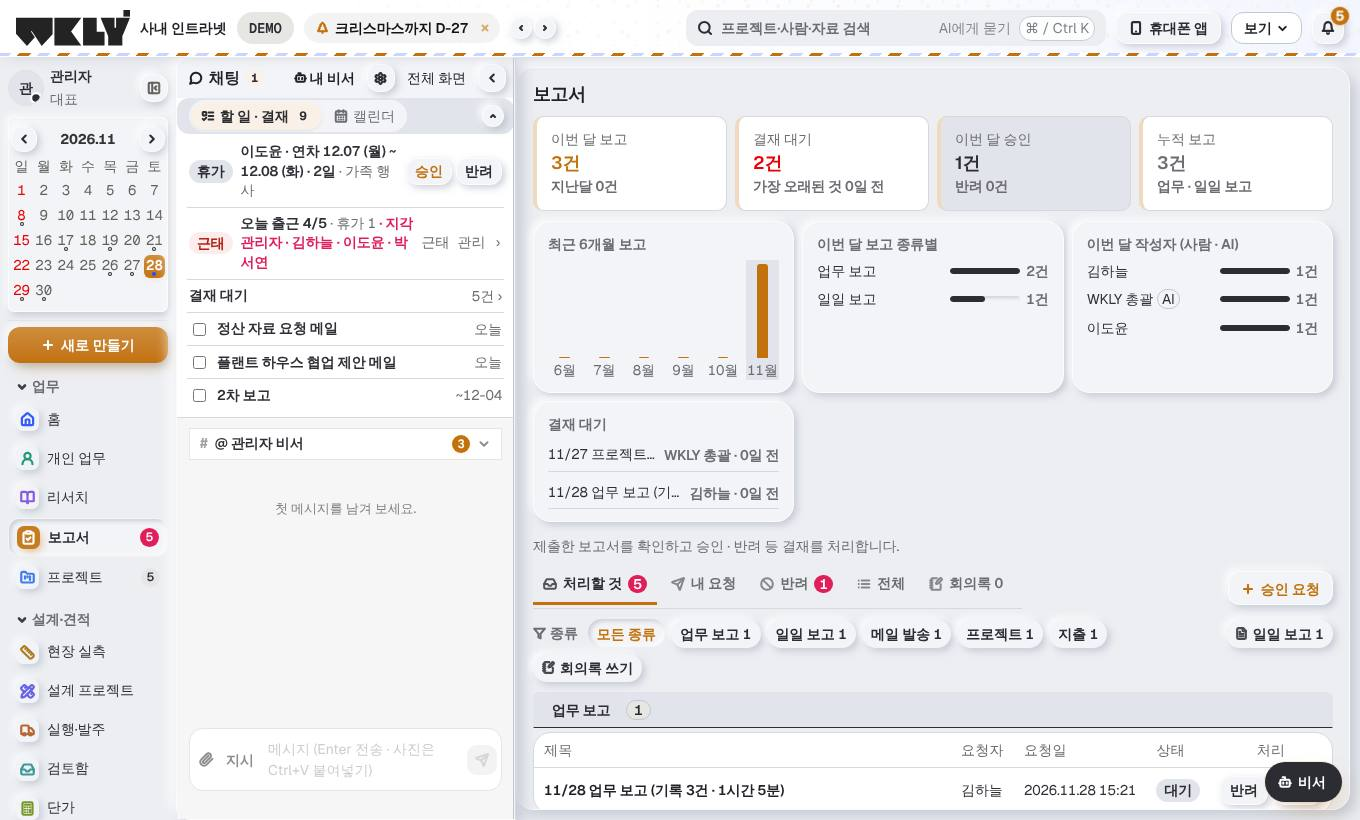
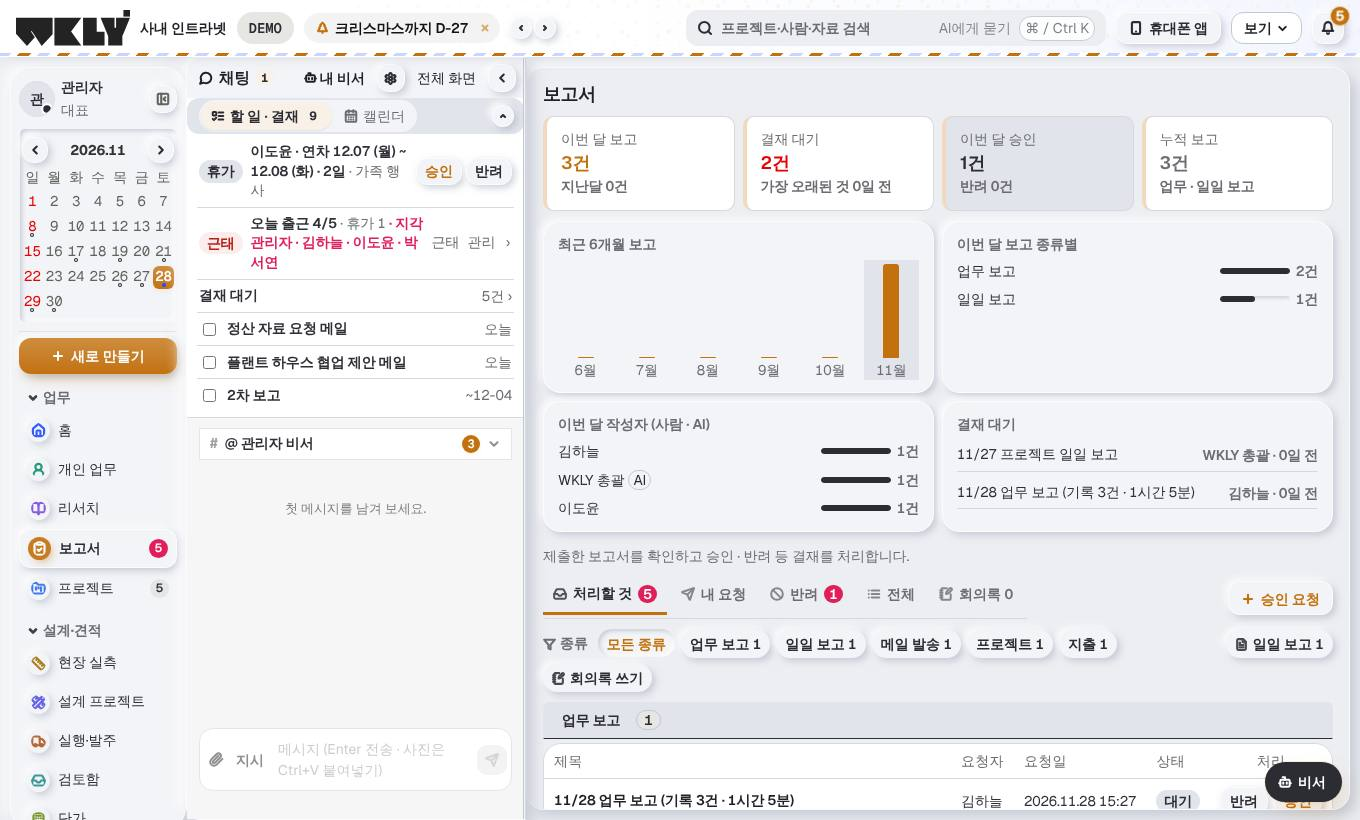
홈 대시보드: 숫자 카드에 둥근 아이콘 칸 · 왼쪽 메뉴를 떠 있는 판으로
Claude-Session: https://claude.ai/code/session_01F3gTQwJrgJEzSdbh5GAwru

diff --git a/erp/src/pages/Dashboard.tsx b/erp/src/pages/Dashboard.tsx
@@ -4,7 +4,7 @@
 import { AlarmClock, ArrowUpRight, CalendarClock, FileCheck2, FolderKanban } from 'lucide-react'
 import { useApp, useAsync } from '../lib/app'
 import { dateLabel, todayKey } from '../lib/date'
-import { byDivision, dashKpis, dayFlow, nearDeadlines, sparkOf, teamLoad, weekAhead } from '../lib/dashboard'
+import { byDivision, dashKpis, dayFlow, nearDeadlines, teamLoad, weekAhead } from '../lib/dashboard'
 import { Link } from '../lib/router'
 import { DIVISIONS, type ApprovalSummary, type Project, type Task } from '../lib/types'
 import { Shell } from '../components/Shell'
@@ -15,10 +15,6 @@ import './Dashboard.css'
 const WEEKDAY = ['일', '월', '화', '수', '목', '금', '토']
 const dow = (key: string) => new Date(`${key}T00:00:00`).getDay()
 const ROWS = 8
-
-function Spark({ values }: { values: number[] }) {
-  return <span className="dash-spark" aria-hidden="true">{sparkOf(values).map((v, i) => <i key={i} style={{ height: `${Math.max(10, v * 100)}%` }} className={v >= 1 && values.some(x => x > 0) ? 'top' : ''} />)}</span>
-}
 
 export default function Dashboard() {
   const { api, me, version, profiles } = useApp()
@@ -45,8 +41,6 @@ export default function Dashboard() {
   const cell = (n: number) => Math.round((n / flowMax) * ROWS)
   const active = data.projects.filter(p => p.status === '진행').sort((a, b) => (a.end_date ?? '9').localeCompare(b.end_date ?? '9'))
   const projName = (id?: string | null) => { const p = data.projects.find(x => x.id === id); return p ? p.code ?? p.name : '' }
-  const ahead7 = flow.filter(d => d.date >= today).slice(0, 7)
-  const back7 = flow.filter(d => d.date <= today).slice(-7)
   const hour = Number(new Intl.DateTimeFormat('en-US', { hour: 'numeric', hour12: false, timeZone: 'Asia/Seoul' }).format(new Date()))
   const hello = hour < 11 ? '좋은 아침입니다' : hour < 17 ? '좋은 오후입니다' : '오늘도 수고 많으셨습니다'
 
@@ -65,23 +59,23 @@ export default function Dashboard() {
 
         <div className="dash-kpis" role="group" aria-label="오늘 숫자">
           <Link to="/projects?view=list" className="dash-kpi is-key">
-            <span className="dash-kpi-l"><FolderKanban size={13} /> 진행 프로젝트</span>
-            <b>{k.active}</b><Spark values={divs.map(d => d.active)} />
+            <span className="dash-kpi-l">진행 프로젝트</span>
+            <b>{k.active}</b><span className="dash-kpi-ic" aria-hidden="true"><FolderKanban size={18} /></span>
             <span className="dash-kpi-foot">문의 {k.inquiry} · 전체 {data.projects.length}</span>
           </Link>
           <Link to="/projects?view=tasks" className="dash-kpi">
-            <span className="dash-kpi-l"><CalendarClock size={13} /> 오늘 마감</span>
-            <b>{k.dueToday}</b><Spark values={ahead7.map(d => d.due)} />
+            <span className="dash-kpi-l">오늘 마감</span>
+            <b>{k.dueToday}</b><span className="dash-kpi-ic" aria-hidden="true"><CalendarClock size={18} /></span>
             <span className="dash-kpi-foot">앞으로 7일 {k.week}건</span>
           </Link>
           <Link to="/projects?view=tasks" className={`dash-kpi${k.late ? ' bad' : ''}`}>
-            <span className="dash-kpi-l"><AlarmClock size={13} /> 지연</span>
-            <b>{k.late}</b><Spark values={back7.map(d => d.late)} />
+            <span className="dash-kpi-l">지연</span>
+            <b>{k.late}</b><span className="dash-kpi-ic" aria-hidden="true"><AlarmClock size={18} /></span>
             <span className="dash-kpi-foot">{k.late ? '마감이 지난 할 일' : '지연 없음'}</span>
           </Link>
           <Link to="/approvals" className="dash-kpi">
-            <span className="dash-kpi-l"><FileCheck2 size={13} /> 결재 대기</span>
-            <b>{waitingList.length}</b><Spark values={back7.map(d => d.done)} />
+            <span className="dash-kpi-l">결재 대기</span>
+            <b>{waitingList.length}</b><span className="dash-kpi-ic" aria-hidden="true"><FileCheck2 size={18} /></span>
             <span className="dash-kpi-foot">7일간 끝낸 일 {k.doneWeek}건</span>
           </Link>
         </div>

diff --git a/erp/src/pages/Dashboard.css b/erp/src/pages/Dashboard.css
@@ -96,3 +96,18 @@ html[data-theme=dark] :is(.dash-body, .dash-kpi-l, .dash-kpi b, .dash-spark, .da
 .dash-kpi, .dash-card { border: 1px solid var(--v8-line, #dbdbd7); box-shadow: 0 1px 2px rgba(20, 22, 30, .05); }
 .dash-body { border: 1px solid var(--v8-line, #dbdbd7); }
 .dash-kpi.is-key { border-color: var(--v9-accent); box-shadow: var(--glow-2, none); }
+
+/* 볼록 · 오목 (2026-11-28 참고 그림): 숫자 카드 = 떠 있는 면 + 오른쪽 둥근 아이콘 칸 · 팀원 막대 = 눌린 홈 안의 알약 */
+.dash-kpi { grid-template-columns: 1fr auto; grid-template-areas: 'label ic' 'num ic' 'foot foot'; padding: 14px 16px 12px; border-radius: 20px; align-items: center; }
+.dash-kpi-l { background: transparent; padding: 0; color: var(--tx-sub); }
+.dash-kpi b { background: transparent; padding: 2px 0 0; font-size: calc(var(--t-num, 24px) * 1.15); }
+.dash-kpi-foot { padding: 8px 0 0; margin-top: 8px; border-top: 1px solid var(--v8-line, #d5d8df); }
+.dash-kpi-ic { grid-area: ic; display: grid; place-items: center; width: 46px; height: 46px; border-radius: 50%; background: var(--nm-face, #f3f4f7); box-shadow: var(--nm-up-sm, 0 1px 3px rgba(0, 0, 0, .15)); color: var(--v9-ink, #2b2d33); }
+.dash-kpi-ic svg { width: 18px; height: 18px; }
+.dash-kpi.is-key .dash-kpi-ic { background: var(--v9-accent); color: #fff; box-shadow: 4px 6px 14px -4px color-mix(in srgb, var(--v9-accent) 65%, transparent); }
+.dash-kpi.bad .dash-kpi-ic { color: var(--red, #c0392b); }
+.dash-card { border-radius: 22px; padding: 8px; }
+.dash-body { border-radius: 16px; }
+.dash-vbar-track { width: 12px; border-radius: 999px; background: #dfe2e8; box-shadow: var(--nm-in-sm, none); padding: 1px; }
+.dash-vbar-track i { border-radius: 999px; background-image: linear-gradient(180deg, rgba(255, 255, 255, .25), rgba(255, 255, 255, 0)); }
+.dash-flow-col i { border-radius: 5px; }

diff --git a/erp/src/mono.css b/erp/src/mono.css
@@ -280,3 +280,10 @@ input[type="checkbox"].nm-switch:checked::after { transform: translateX(20px); }
 input[type="checkbox"].nm-switch:focus-visible { outline: 2px solid var(--v9-accent); outline-offset: 2px; }
 /* 둥근 단추(아이콘) = 손잡이처럼 */
 html:not([data-theme="dark"]) .icon-btn { border-radius: 50%; }
+
+/* 왼쪽 메뉴 패널: 떠 있는 판 · 고른 줄은 떠 있는 알약(참고 그림) */
+html:not([data-theme="dark"]) .app-page .profile { background: var(--nm-face); border: 1px solid rgba(255, 255, 255, .7); border-radius: 22px; box-shadow: var(--nm-up); margin: 10px 0 10px 10px; }
+html:not([data-theme="dark"]) .app-page .profile .side-item { border-radius: 999px; }
+html:not([data-theme="dark"]) .app-page .profile .side-item.on { box-shadow: var(--nm-up-sm); border: 1px solid rgba(255, 255, 255, .8); }
+html:not([data-theme="dark"]) .app-page .profile .side-item > svg { border-radius: 50%; }
+html:not([data-theme="dark"]) .app-page .profile .mini-cal { box-shadow: var(--nm-in-sm); border-color: transparent !important; }
